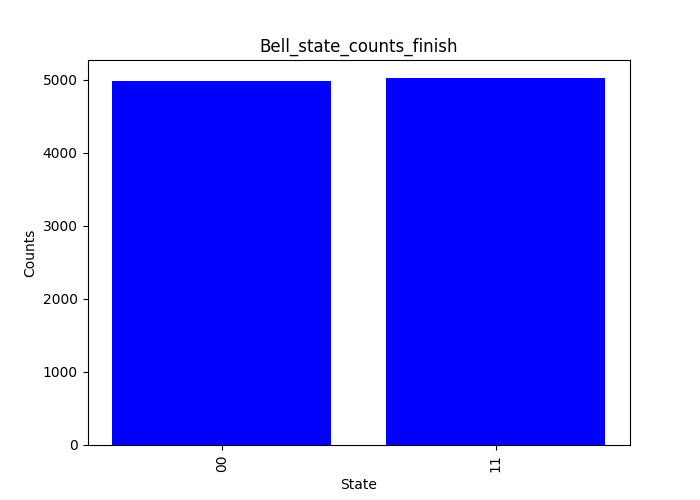
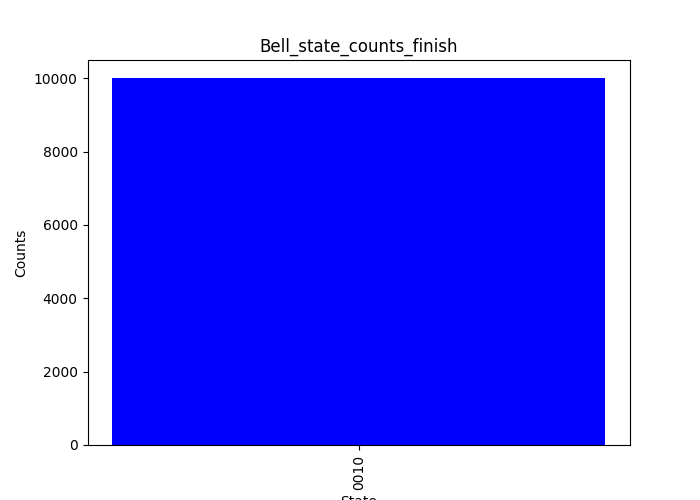
add logic for 1+1

diff --git a/ibm_qiskit/main.py b/ibm_qiskit/main.py
@@ -1,53 +1,57 @@
+import os
+import numpy as np
+import matplotlib.pyplot as plt
+
+# Import Qiskit
+from qiskit import QuantumCircuit, transpile
 from qiskit_aer import AerSimulator
-from qiskit.circuit import QuantumCircuit
-from qiskit.transpiler.preset_passmanagers import generate_preset_pass_manager
-from qiskit_ibm_runtime import (
-    SamplerV2 as Sampler,
-    QiskitRuntimeService,
-    IBMRuntimeService,
-)
+from qiskit.visualization import plot_histogram, plot_state_city
+import qiskit.quantum_info as qi
 
 
-def main(args=None):
-    # Create a Quantum Circuit acting on a quantum register of four qubits
-    qc = QuantumCircuit(4)
-
-    # Initialize the state to binary number 1 (0001)
-    qc.x(0)  # Apply X gate to the least significant qubit
-
-    # Add the binary number 2 (0010) to it
-    qc.cx(0, 1)  # Flip the second least significant qubit if the first qubit is 1
-    qc.x(0)  # Reset the first qubit back to 0
-
-    # Add a barrier to prevent optimization changes
-    qc.barrier()
-
-    # Map the quantum measurement to the classical bits
-    qc.measure_all()
-
-    service = QiskitRuntimeService()
-
-    # Specify a system to use for the noise model
-    real_backend = service.backend("ibm_brisbane")
-    aer = AerSimulator.from_backend(real_backend)
-
-    # Run the sampler job locally using AerSimulator.
-    pm = generate_preset_pass_manager(backend=aer, optimization_level=1)
-    isa_qc = pm.run(qc)
-    sampler = Sampler(backend=aer)
-    result = sampler.run([isa_qc]).result()
-
-    # Extract and Print States
-    measurement_results = result.quasi_dists[0]
-
-    print("Measured States and their Probabilities:")
-    for state, probability in measurement_results.items():
-        print(f"State: {state}, Probability: {probability}")
-
-    # # Drawing the circuit
-    # print("Circuit:")
-    # print(qc.draw(output="text"))
+# Function Definitions
+def get_counts(simulator, circuit, shots=1000):
+    """Return the counts from running a circuit on the Aer"""
+    job_statevector = simulator.run(circuit, shots=shots)
+    counts = job_statevector.result().get_counts(0)
+    return counts
 
 
-if __name__ == "__main__":
-    main()
+def plot_histogram(counts, title="histogram", figsize=(7, 5)):
+    """Plot a histogram of data from a counts dictionary."""
+    if not os.path.exists("results"):
+        os.makedirs("results")
+    labels, values = zip(*sorted(counts.items()))
+    plt.figure(figsize=figsize)
+    plt.bar(labels, values, color="b")
+    plt.xticks(rotation=90)
+    plt.xlabel("State")
+    plt.ylabel("Counts")
+    plt.title(title)
+    plt.savefig(f"results/{title}.png")
+    plt.close()
+
+
+shots = 10000
+simulator = AerSimulator(method="statevector")
+
+# Create a Quantum Circuit acting on a quantum register of four qubits
+qc = QuantumCircuit(4)
+
+# Initialize the state to binary number 1 (0001)
+qc.x(0)  # Apply X gate to the least significant qubit
+
+# Add the binary number 2 (0010) to it
+qc.cx(0, 1)  # Flip the second least significant qubit if the first qubit is 1
+qc.x(0)  # Reset the first qubit back to 0
+
+# Add a barrier to prevent optimization changes
+qc.barrier()
+
+# Map the quantum measurement to the classical bits
+qc.measure_all()
+
+counts = get_counts(simulator, qc, shots=shots)
+print("Final counts:", counts)
+plot_histogram(counts, title="Bell_state_counts_finish")
+print(qc.draw())
